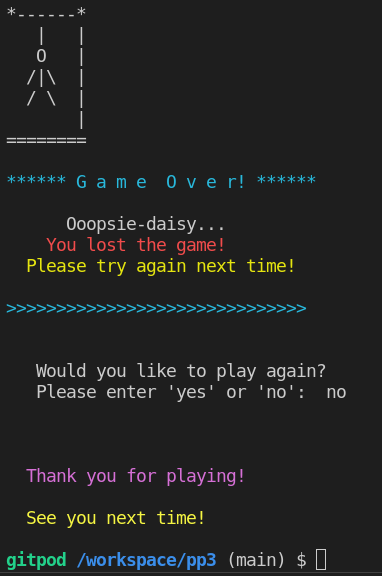
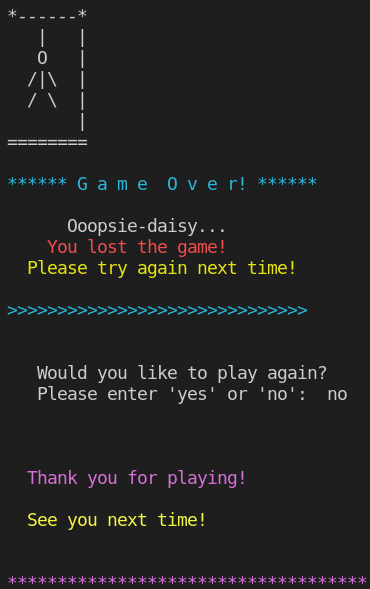
Replace the quit with calling main function in other 2 functins in run.py fiel and replace 2 screenshots in README file.

diff --git a/run.py b/run.py
@@ -41,7 +41,8 @@ def ask_user_to_play_or_not():
             print('  Have a great day! Bye-bye!')
             print(Fore.LIGHTGREEN_EX + '==============================')
             print()
-            quit()
+
+            main()
 
         else:
             print()
@@ -324,7 +325,8 @@ def print_hangman(attempts):
                 print()
                 print(Fore.LIGHTYELLOW_EX + '  See you next time!')
                 print()
-                quit()
+
+                main()
 
             else:
                 print()
